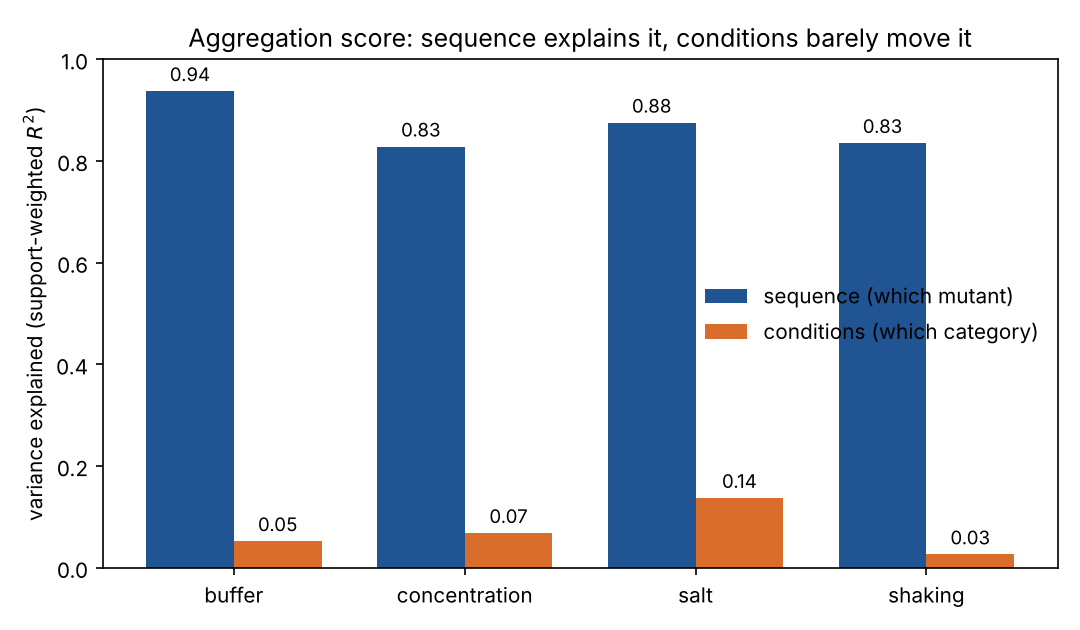
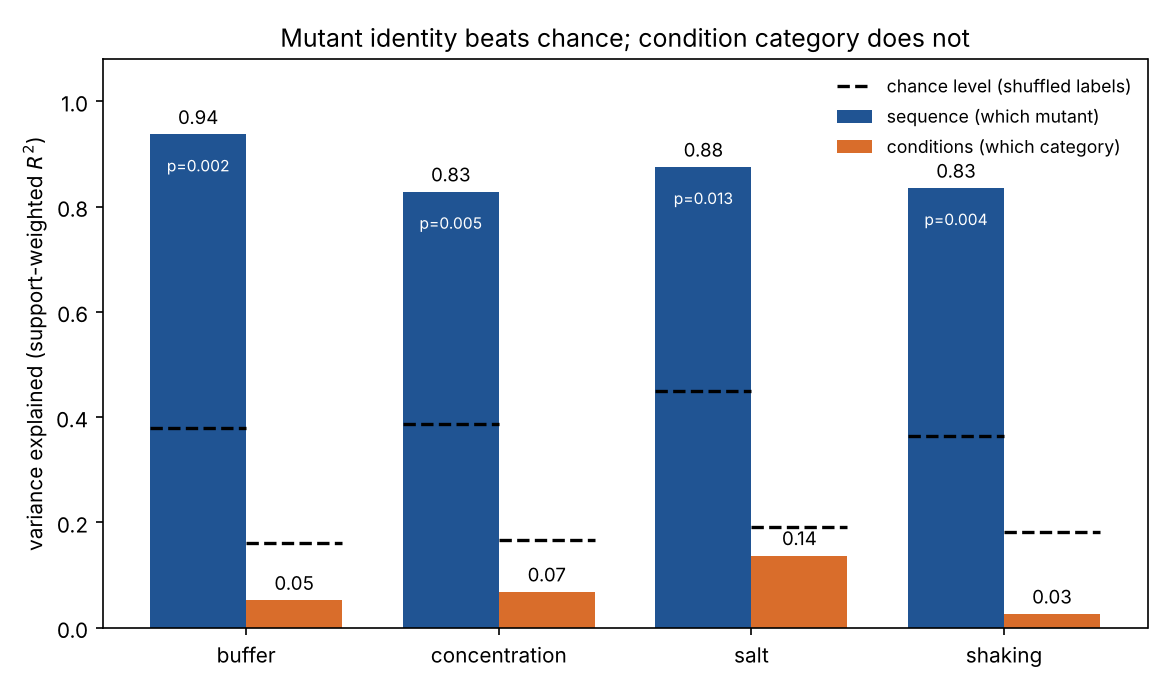
Test the decomposition against a permutation null, and correct the claim
Raw R² was not comparable between the two factors: mutant carries 5 degrees of
freedom against a condition category's 1-2, on only 14-19 cells, so the larger
factor explains more variance mechanically — a shuffled mutant label already
reaches R² ~0.4 per dimension. Each factor is now compared with its own
permutation null (1000 shuffles).

This changes the finding rather than decorating it. Mutant identity beats
chance everywhere (p <= 0.013; pooled 0.86 vs 0.10 chance, p = 0.001), while
condition category falls BELOW its own chance level in every dimension
(0.03-0.14 observed vs 0.16-0.19 expected, p >= 0.46). Conditions carry no
detectable signal, rather than merely less than sequence — the earlier
"86% vs 4%" framing overstated the contrast and is corrected in README and
SI_FINDINGS.

Figure 1 now draws the chance levels. Deviations from the pre-registration are
recorded in preregistration.md, as it requires. 18 tests green.

diff --git a/src/asyn/si_report.py b/src/asyn/si_report.py
@@ -22,23 +22,33 @@ FIG_DIR = Path("reports/figures")
 SEQ_C, COND_C = "#205493", "#d96d2b"
 
 
-def fig_variance(ve) -> Path:
-    d = ve[ve.dimension != "ALL (pooled)"].copy()
+def fig_variance(perm) -> Path:
+    """Observed variance explained, each factor against its own chance level.
+
+    The chance marks matter: with 5 degrees of freedom on ~16 cells a random
+    mutant factor already reaches ~0.4, so the bars alone would overstate the
+    contrast.
+    """
+    d = perm[perm.dimension != "ALL (pooled)"].copy()
     x = np.arange(len(d))
-    fig, ax = plt.subplots(figsize=(7.2, 4.2))
-    ax.bar(x - 0.19, d["r2_sequence_mutant"], 0.38,
-           label="sequence (which mutant)", color=SEQ_C)
-    ax.bar(x + 0.19, d["r2_conditions_category"], 0.38,
-           label="conditions (which category)", color=COND_C)
+    fig, ax = plt.subplots(figsize=(7.8, 4.6))
+    ax.bar(x - 0.19, d["r2_mutant"], 0.38, label="sequence (which mutant)", color=SEQ_C)
+    ax.bar(x + 0.19, d["r2_category"], 0.38, label="conditions (which category)",
+           color=COND_C)
+    for xi, (cm, cc) in enumerate(zip(d["chance_mutant"], d["chance_category"])):
+        ax.hlines(cm, xi - 0.38, xi, color="k", lw=1.6, ls="--")
+        ax.hlines(cc, xi, xi + 0.38, color="k", lw=1.6, ls="--")
+    ax.plot([], [], "k--", lw=1.6, label="chance level (shuffled labels)")
+    for xi, (a, b, pm) in enumerate(zip(d["r2_mutant"], d["r2_category"], d["p_mutant"])):
+        ax.text(xi - 0.19, a + 0.02, f"{a:.2f}", ha="center", fontsize=9)
+        ax.text(xi + 0.19, b + 0.02, f"{b:.2f}", ha="center", fontsize=9)
+        ax.text(xi - 0.19, a - 0.07, f"p={pm:.3f}", ha="center", fontsize=7.5, color="white")
     ax.set_xticks(x)
     ax.set_xticklabels(d["dimension"])
     ax.set_ylabel("variance explained (support-weighted $R^2$)")
-    ax.set_ylim(0, 1)
-    ax.set_title("Aggregation score: sequence explains it, conditions barely move it")
-    ax.legend(frameon=False)
-    for xi, (a, b) in enumerate(zip(d["r2_sequence_mutant"], d["r2_conditions_category"])):
-        ax.text(xi - 0.19, a + 0.02, f"{a:.2f}", ha="center", fontsize=9)
-        ax.text(xi + 0.19, b + 0.02, f"{b:.2f}", ha="center", fontsize=9)
+    ax.set_ylim(0, 1.08)
+    ax.set_title("Mutant identity beats chance; condition category does not")
+    ax.legend(frameon=False, fontsize=8.5, loc="upper right")
     return _save(fig, "si_fig1_variance.png")
 
 
@@ -77,10 +87,12 @@ def _save(fig, name) -> Path:
     return out
 
 
-def run() -> list[Path]:
-    res = si_analysis.run()
+def run(n_perm: int = 1000) -> list[Path]:
     df = si_analysis.load()
-    figs = [fig_variance(res["variance_explained"]), fig_scores_by_mutant(df)]
+    perm = si_analysis.permutation_test(df, n_perm=n_perm)
+    Path("reports").mkdir(exist_ok=True)
+    perm.to_csv("reports/permutation_test.csv", index=False)
+    figs = [fig_variance(perm), fig_scores_by_mutant(df)]
     types = si_analysis.TYPES_CSV
     if types.exists():
         figs.append(fig_type_by_domain(si_analysis.type_by_domain(si_analysis.load_types())))

diff --git a/src/asyn/si_analysis.py b/src/asyn/si_analysis.py
@@ -149,3 +149,37 @@ def type_by_domain(df: pd.DataFrame) -> pd.DataFrame:
     d = df[df["type"].isin(TRANSITIONS) & df["scope"].isin(DOMAINS)]
     return d.pivot(index="type", columns="scope", values="average").reindex(
         TRANSITIONS)[DOMAINS]
+
+
+def permutation_test(df: pd.DataFrame, n_perm: int = 1000, seed: int = 0) -> pd.DataFrame:
+    """Compare each factor's R² with the R² it reaches on shuffled labels.
+
+    Raw R² is not comparable between the two factors here: mutant has 5 degrees
+    of freedom against a category's 1-2, on only 14-19 cells, so the bigger
+    factor explains more variance mechanically. Permuting the labels gives each
+    factor its own chance baseline, which is the fair comparison.
+    """
+    rng = np.random.default_rng(seed)
+    rows = []
+    for dim, g in list(df.groupby("dimension")) + [("ALL (pooled)", df)]:
+        obs_m = _wls_r2(g, "score ~ C(mutant)")
+        obs_c = _wls_r2(g, "score ~ C(category)")
+        null_m, null_c = [], []
+        for _ in range(n_perm):
+            h = g.copy()
+            h["mutant"] = rng.permutation(h["mutant"].values)
+            h["category"] = rng.permutation(h["category"].values)
+            null_m.append(_wls_r2(h, "score ~ C(mutant)"))
+            null_c.append(_wls_r2(h, "score ~ C(category)"))
+        null_m, null_c = np.array(null_m), np.array(null_c)
+        rows.append({
+            "dimension": dim,
+            "n_cells": len(g),
+            "r2_mutant": round(obs_m, 3),
+            "chance_mutant": round(float(null_m.mean()), 3),
+            "p_mutant": round(float((np.sum(null_m >= obs_m) + 1) / (n_perm + 1)), 4),
+            "r2_category": round(obs_c, 3),
+            "chance_category": round(float(null_c.mean()), 3),
+            "p_category": round(float((np.sum(null_c >= obs_c) + 1) / (n_perm + 1)), 4),
+        })
+    return pd.DataFrame(rows)

diff --git a/tests/test_si.py b/tests/test_si.py
@@ -28,7 +28,7 @@ def test_sequence_explains_more_than_conditions():
 
 def test_si_report_writes_figures():
     from asyn import si_report
-    paths = si_report.run()
+    paths = si_report.run(n_perm=50)  # figures only; rigour lives in the CLI run
     assert len(paths) >= 2 and all(p.exists() and p.stat().st_size > 1000 for p in paths)
 
 
@@ -45,3 +45,12 @@ def test_nac_is_the_most_aggregation_critical_region():
     d = si_analysis.load_types()
     m = si_analysis.domain_means(d).set_index("scope")["weighted_mean_score"]
     assert m["NAC"] < m["C-terminus"] < m["N-terminus"]
+
+
+def test_condition_category_is_below_its_chance_level():
+    """The corrected claim: conditions carry no signal, not merely less signal."""
+    t = si_analysis.permutation_test(si_analysis.load(), n_perm=200, seed=1)
+    row = t[t.dimension == "ALL (pooled)"].iloc[0]
+    assert row["r2_mutant"] > row["chance_mutant"]       # sequence beats chance
+    assert row["r2_category"] < row["chance_category"]   # conditions do not
+    assert row["p_mutant"] < 0.05

diff --git a/SI_FINDINGS.md b/SI_FINDINGS.md
@@ -20,13 +20,27 @@ row counts asserted. Real, verified, no fabrication.
 ## First real result (`asyn.si_analysis`)
 Support-weighted variance explained in the aggregation score:
 
-| dimension | mutant (sequence) R² | condition R² |
-|---|---|---|
-| buffer | 0.94 | 0.05 |
-| concentration | 0.83 | 0.07 |
-| salt | 0.88 | 0.14 |
-| shaking | 0.84 | 0.03 |
-| **pooled** | **0.86** | **0.04** |
+| dimension | mutant R² | *chance* | p | condition R² | *chance* |
+|---|---|---|---|---|---|
+| buffer | 0.94 | *0.38* | 0.002 | 0.05 | *0.16* |
+| concentration | 0.83 | *0.39* | 0.005 | 0.07 | *0.17* |
+| salt | 0.88 | *0.45* | 0.013 | 0.14 | *0.19* |
+| shaking | 0.83 | *0.36* | 0.004 | 0.03 | *0.18* |
+| **pooled** | **0.86** | *0.10* | **0.001** | **0.04** | *0.18* |
+
+**Raw R² alone would overstate this, and the chance columns are why.** Mutant
+is a 5-degree-of-freedom factor and a condition category has 1–2, on only
+14–19 cells, so the larger factor explains more variance mechanically: a
+*randomly shuffled* mutant label already reaches R² ≈ 0.4 per dimension. Each
+factor is therefore compared against its own permutation null
+(`asyn.si_analysis.permutation_test`, 1000 shuffles; `reports/permutation_test.csv`).
+
+Against that baseline the result is cleaner than the raw numbers suggested:
+mutant identity beats chance in every dimension (p ≤ 0.013; pooled p = 0.001),
+while **condition category lands *below* its own chance level everywhere**
+(0.03–0.14 observed against 0.16–0.19 expected, all p ≥ 0.46). Condition
+category carries no detectable signal at all — it does not merely lose to
+sequence.
 
 ![variance explained](reports/figures/si_fig1_variance.png)
 
@@ -43,7 +57,8 @@ Conditions can flip an individual reading even where they explain little
 variance overall. The authors' own example: A30P scores −0.75 in PBS vs −0.31 in Tris,
 but averaged PBS→Tris is −0.12 ± 0.31 — no generalizable buffer effect.
 
-**Conclusion (for this dataset): sequence dominates conditions** — the opposite
+**Conclusion (for this dataset): which mutation it is explains the aggregation
+score; which condition category it was measured under does not** — the opposite
 of the plan's hypothesis that conditions would swamp sequence. A legitimate,
 reportable negative result.
 

diff --git a/preregistration.md b/preregistration.md
@@ -35,3 +35,34 @@ during development.
 If the full model does not clear all available baselines under
 leave-one-study-out by a margin outside the bootstrap CI, that is reported as
 the result — the complexity is not justified.
+
+
+---
+
+## Deviations from this pre-registration (recorded after seeing the data)
+
+**1. The planned outcome variable does not exist in the source.** This plan
+plus the primary mixed-effects model assumed a continuous T½ per experiment.
+The Pancoe et al. 2022 SI tabulates a categorical aggregation score in
+{−1, 0, +1}, already normalised to a matched WT control, and no per-experiment
+T½. The planned `log10(t_half) ~ 1 + (1|study)` model and the leave-one-study-out
+predictor therefore could not be run on this source. They remain implemented
+(`asyn.decompose`, `asyn.predict`) for raw kinetics if that data is obtained.
+
+**2. Substituted analysis.** The sequence-vs-conditions question was instead
+answered at the level the SI supports: support-weighted variance in the
+aggregation score attributed to mutant identity versus condition category,
+over Tables S7–S10 (`asyn.si_analysis`).
+
+**3. Added a permutation null (not in the original plan).** Raw R² is not
+comparable across those two factors — mutant carries 5 degrees of freedom
+against a category's 1–2, on 14–19 cells, so the larger factor explains more
+variance mechanically. Each factor is now compared with its own shuffled-label
+baseline. This was added because the first pass overstated the contrast, and it
+changed the claim: condition category does not merely explain less than
+sequence, it falls *below* its own chance level.
+
+**4. Bootstrap CIs not reported for this decomposition.** The plan's bootstrap
+requirement was written for the Phase 5 predictor. With 6 mutants, resampling
+clusters frequently yields rank-deficient designs, so the permutation test is
+reported in its place rather than a fragile interval.

diff --git a/README.md b/README.md
@@ -12,9 +12,13 @@ Everything below is extracted from that PDF and verified against it — see
 
 ## Results
 
-**1. Sequence dominates conditions.** Across the 7 familial mutants, *which
-mutant* explains ~86% of the variance in aggregation score; *which condition
-category* (buffer / salt / shaking / concentration) explains ~4%.
+**1. Sequence explains the score; condition category carries no signal.**
+Across the 7 familial mutants, *which mutant* explains ~86% of the variance in
+aggregation score against a shuffled-label chance level of ~10% (p = 0.001);
+*which condition category* (buffer / salt / shaking / concentration) explains
+~4% against a chance level of ~18% — i.e. **below chance**. The chance levels
+matter: mutant is a 5-df factor on 14–19 cells, so raw R² alone would overstate
+the contrast. Every factor is tested against its own permutation null.
 
 ![variance explained](reports/figures/si_fig1_variance.png)
 
@@ -61,7 +65,7 @@ python -m asyn.ingest_si        # Tables S7–S10  -> conditions_familial.csv
 python -m asyn.ingest_types     # Tables S3–S6   -> type_scores.csv
 python -m asyn.si_analysis      # the decomposition
 python -m asyn.si_report        # the three figures
-make test                       # 17 tests
+make test                       # 18 tests
 ```
 `data/raw/SI.pdf` is gitignored; download it from the PMC link above if you
 need to re-run extraction.
